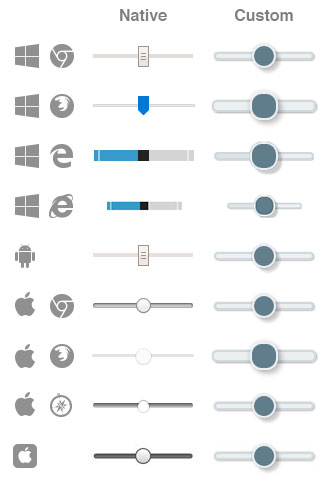
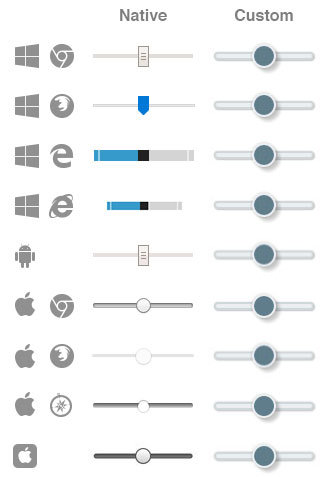
Range track and thumb tweaks for Mozilla Firefox.

diff --git a/example/inputrange.css b/example/inputrange.css
@@ -1,0 +1,100 @@
+[type=range] {
+  -webkit-appearance: none;
+  background: transparent;
+  margin: 12px 0;
+  width: 100%;
+}
+[type=range]::-moz-focus-outer {
+  border: 0;
+}
+[type=range]:focus {
+  outline: 0;
+}
+[type=range]:focus::-webkit-slider-runnable-track {
+  background: #fbfbfc;
+}
+[type=range]:focus::-ms-fill-lower {
+  background: #eceff1;
+}
+[type=range]:focus::-ms-fill-upper {
+  background: #fbfbfc;
+}
+[type=range]::-webkit-slider-runnable-track {
+  cursor: default;
+  height: 8px;
+  transition: all 0.2s ease;
+  width: 100%;
+  box-shadow: 1px 1px 1px rgba(0, 0, 0, 0.2), 0 0 1px rgba(13, 13, 13, 0.2);
+  background: #eceff1;
+  border: 2px solid #cfd8dc;
+  border-radius: 5px;
+}
+[type=range]::-webkit-slider-thumb {
+  box-shadow: 4px 4px 4px rgba(0, 0, 0, 0.2), 0 0 4px rgba(13, 13, 13, 0.2);
+  background: #607d8b;
+  border: 2px solid #eceff1;
+  border-radius: 12px;
+  box-sizing: border-box;
+  cursor: default;
+  height: 24px;
+  width: 24px;
+  -webkit-appearance: none;
+  margin-top: -10px;
+}
+[type=range]::-moz-range-track {
+  box-shadow: 1px 1px 1px rgba(0, 0, 0, 0.2), 0 0 1px rgba(13, 13, 13, 0.2);
+  cursor: default;
+  height: 8px;
+  transition: all 0.2s ease;
+  width: 100%;
+  background: #eceff1;
+  border: 2px solid #cfd8dc;
+  border-radius: 5px;
+  height: 4px;
+}
+[type=range]::-moz-range-thumb {
+  box-shadow: 4px 4px 4px rgba(0, 0, 0, 0.2), 0 0 4px rgba(13, 13, 13, 0.2);
+  background: #607d8b;
+  border: 2px solid #eceff1;
+  border-radius: 12px;
+  box-sizing: border-box;
+  cursor: default;
+  height: 24px;
+  width: 24px;
+}
+[type=range]::-ms-track {
+  cursor: default;
+  height: 8px;
+  transition: all 0.2s ease;
+  width: 100%;
+  background: transparent;
+  border-color: transparent;
+  border-width: 12px 0;
+  color: transparent;
+}
+[type=range]::-ms-fill-lower {
+  box-shadow: 1px 1px 1px rgba(0, 0, 0, 0.2), 0 0 1px rgba(13, 13, 13, 0.2);
+  background: #dde3e6;
+  border: 2px solid #cfd8dc;
+  border-radius: 10px;
+}
+[type=range]::-ms-fill-upper {
+  box-shadow: 1px 1px 1px rgba(0, 0, 0, 0.2), 0 0 1px rgba(13, 13, 13, 0.2);
+  background: #eceff1;
+  border: 2px solid #cfd8dc;
+  border-radius: 10px;
+}
+[type=range]::-ms-thumb {
+  box-shadow: 4px 4px 4px rgba(0, 0, 0, 0.2), 0 0 4px rgba(13, 13, 13, 0.2);
+  background: #607d8b;
+  border: 2px solid #eceff1;
+  border-radius: 12px;
+  box-sizing: border-box;
+  cursor: default;
+  height: 24px;
+  width: 24px;
+  margin-top: 2px;
+}
+[type=range]:disabled::-webkit-slider-thumb, [type=range]:disabled::-moz-range-thumb, [type=range]:disabled::-ms-thumb, [type=range]:disabled::-webkit-slider-runnable-track, [type=range]:disabled::-ms-fill-lower, [type=range]:disabled::-ms-fill-upper {
+  cursor: not-allowed;
+}

diff --git a/_inputrange.scss b/_inputrange.scss
@@ -1,7 +1,7 @@
 // Styling Cross-Browser Compatible Range Inputs with Sass
 // Github: https://github.com/darlanrod/input-range-sass
 // Author: Darlan Rod https://github.com/darlanrod
-// Version 1.5.1
+// Version 1.5.2
 // MIT License
 
 $track-color: #eceff1 !default;
@@ -40,18 +40,15 @@ $ie-bottom-track-color: darken($track-color, $contrast) !default;
   width: $track-width;
 }
 
-@mixin thumb($adjustment: 0) {
+@mixin thumb {
   @include shadow($thumb-shadow-size, $thumb-shadow-blur, $thumb-shadow-color);
   background: $thumb-color;
   border: $thumb-border-width solid $thumb-border-color;
   border-radius: $thumb-radius;
+  box-sizing: border-box;
   cursor: default;
-  height: $thumb-height + $adjustment;
-  width: $thumb-width + $adjustment;
-}
-
-@mixin disabled {
-  cursor: not-allowed;
+  height: $thumb-height;
+  width: $thumb-width;
 }
 
 [type='range'] {
@@ -104,7 +101,7 @@ $ie-bottom-track-color: darken($track-color, $contrast) !default;
   }
 
   &::-moz-range-thumb {
-    @include thumb(-4);
+    @include thumb;
   }
 
   &::-ms-track {
@@ -130,33 +127,18 @@ $ie-bottom-track-color: darken($track-color, $contrast) !default;
   }
 
   &::-ms-thumb {
-    @include thumb(-4);
+    @include thumb;
     margin-top: $track-height / 4;
   }
 
   &:disabled {
-    &::-webkit-slider-thumb {
-      @include disabled;
-    }
-
-    &::-moz-range-thumb {
-      @include disabled;
-    }
-
-    &::-ms-thumb {
-      @include disabled;
-    }
-
-    &::-webkit-slider-runnable-track {
-      @include disabled;
-    }
-
-    &::-ms-fill-lower {
-      @include disabled;
-    }
-
+    &::-webkit-slider-thumb,
+    &::-moz-range-thumb,
+    &::-ms-thumb,
+    &::-webkit-slider-runnable-track,
+    &::-ms-fill-lower,
     &::-ms-fill-upper {
-      @include disabled;
+      cursor: not-allowed;
     }
   }
 }

diff --git a/example/index.html b/example/index.html
@@ -5,7 +5,7 @@
     <meta http-equiv="X-UA-Compatible" content="IE=edge">
     <meta name="viewport" content="width=device-width, initial-scale=1">
     <title>Styling Cross-Browser Compatible Range Inputs with Sass/SCSS</title>
-    <link href="_inputrange.min.css" rel="stylesheet">
+    <link href="inputrange.css" rel="stylesheet">
     <style>
       div {
         margin: 20px;

diff --git a/README.md b/README.md
@@ -4,7 +4,7 @@ Sass component for customizing the input range using the native properties of ea
 
 ## NPM Package
 ```
-npm install --save input-range-scss
+npm i input-range-scss
 ```
 ## Features
 
@@ -19,34 +19,7 @@ npm install --save input-range-scss
 
 ## Changelog
 
-#### 1.5.1
--   Correction of input cursor to default (thanks, [pichfl](https://github.com/pichfl))
-
-#### 1.5.0
--   Added :disabled state (thanks, [mpavel](https://github.com/mpavel))
--   Improved normalization across browsers (thanks, [guidezpl](https://github.com/guidezpl) and [GufNZ](https://github.com/GufNZ))
--   Removed Firefox border outline on focus (thanks, [DeanPoulin](https://github.com/DeanPoulin))
-
-#### 1.4.1
--   Fixing example page
-
-#### 1.4.0
--   NPM Package
-
-#### 1.3.0
--   Better default style and example page
-
-#### 1.2.0
--   Improvement in SCSS lint (thanks, [Dustin McCaffree](https://github.com/dMcCaffree))
-
-#### 1.1.1
--   Fix track height in IE and thumb margin in Edge (thanks, [danclaydonpm](https://github.com/danclaydonpm) and [jenstornell](https://github.com/jenstornell))
-
-#### 1.1.0
--   Make all variables as '!default'. (thanks, [n0nick](https://github.com/n0nick))
-
-#### 1.0.1
--   SCSS-Lint fix. (thanks, [CookPete](https://github.com/CookPete))
+To see the change history of this project, check out the `changelog.md` file.
 
 ## See Also
 

diff --git a/changelog.md b/changelog.md
@@ -1,0 +1,34 @@
+# Changelog
+_Styling Cross-Browser Compatible Range Inputs with Sass / SCSS_
+
+## 1.5.2
+-   Range track and thumb tweaks for Mozilla Firefox. (thanks [Adam Jagosz](https://github.com/hyvyys))
+
+## 1.5.1
+-   Correction of input cursor to default. (thanks [pichfl](https://github.com/pichfl))
+
+## 1.5.0
+-   Added `:disabled` state. (thanks [mpavel](https://github.com/mpavel))
+-   Improved normalization across browsers. (thanks [guidezpl](https://github.com/guidezpl) and [GufNZ](https://github.com/GufNZ))
+-   Removed Firefox border outline on focus. (thanks [DeanPoulin](https://github.com/DeanPoulin))
+
+## 1.4.1
+-   Fixing example page.
+
+## 1.4.0
+-   NPM Package.
+
+## 1.3.0
+-   Better default style and example page.
+
+## 1.2.0
+-   Improvement in SCSS lint. (thanks [Dustin McCaffree](https://github.com/dMcCaffree))
+
+## 1.1.1
+-   Fix track height in IE and thumb margin in Edge. (thanks [danclaydonpm](https://github.com/danclaydonpm) and [jenstornell](https://github.com/jenstornell))
+
+## 1.1.0
+-   Make all variables as '!default'. (thanks [n0nick](https://github.com/n0nick))
+
+## 1.0.1
+-   SCSS-Lint fix. (thanks [CookPete](https://github.com/CookPete))
